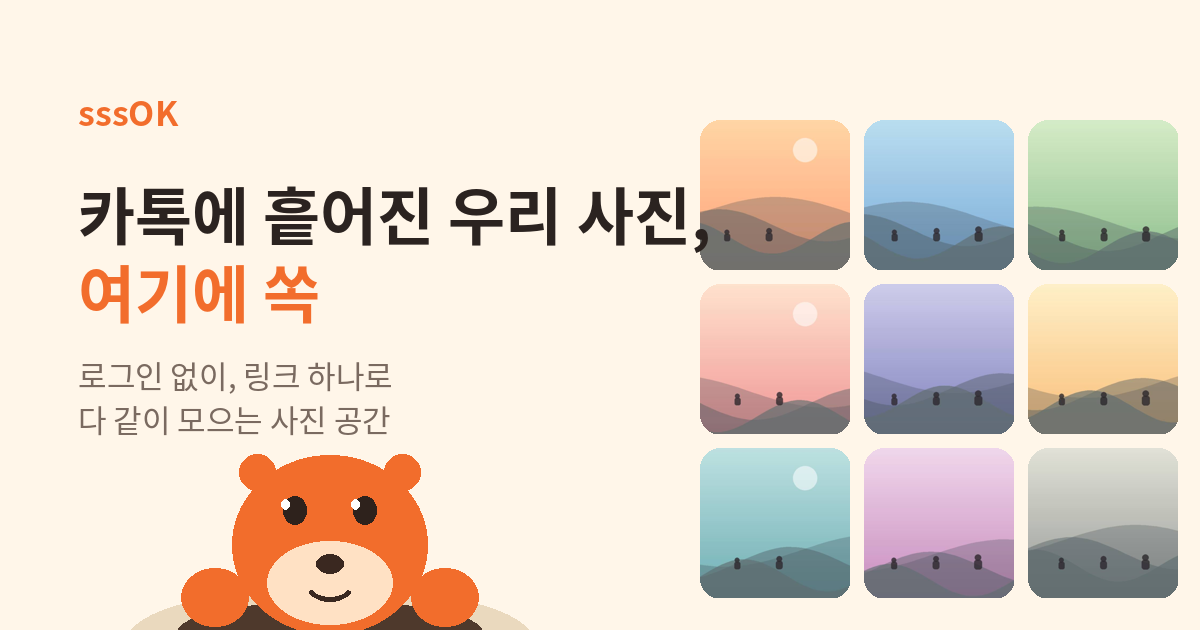
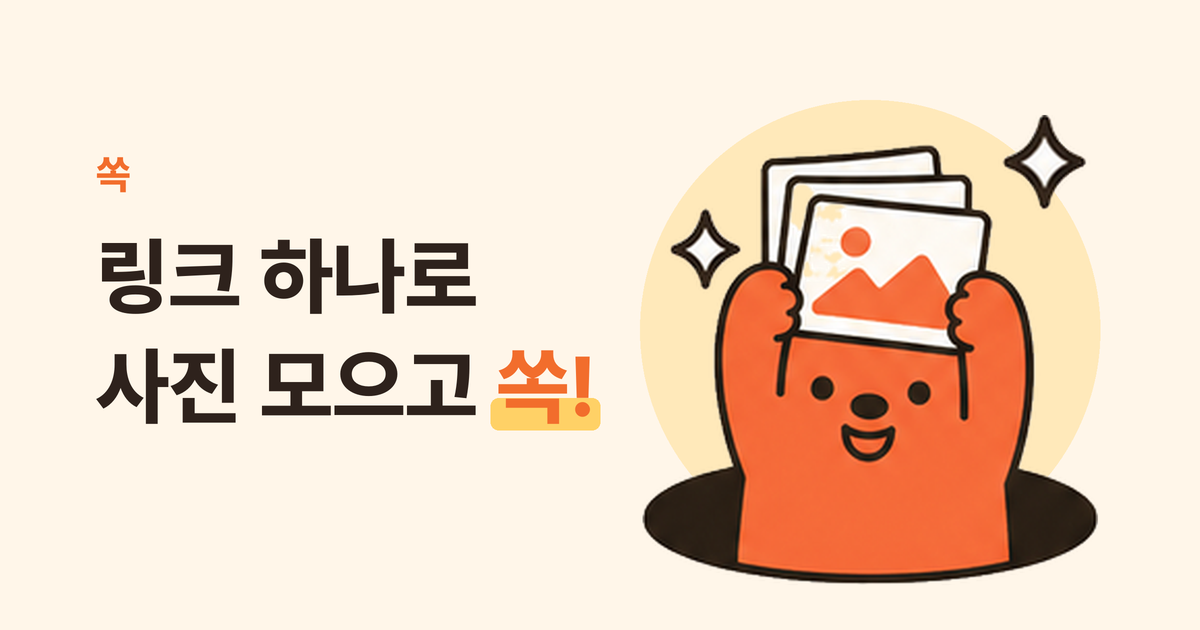
feat: 링크 미리보기 이미지 교체 및 OG 절대 경로로 변경

diff --git a/index.html b/index.html
@@ -20,9 +20,15 @@
       property="og:description"
       content="링크 하나로 모으고, 고르고, 쏙 나누세요"
     />
-    <meta property="og:image" content="./assets/logo.png" />
-    <meta property="og:image:width" content="1254" />
-    <meta property="og:image:height" content="1254" />
+    <!-- 미리보기 수집기(카카오톡·슬랙 등)는 상대 경로를 못 푸는 경우가 많아 절대 주소로 쓴다 -->
+    <meta property="og:url" content="https://sssok-landing.vercel.app/" />
+    <meta
+      property="og:image"
+      content="https://sssok-landing.vercel.app/assets/og.png"
+    />
+    <meta property="og:image:width" content="1200" />
+    <meta property="og:image:height" content="630" />
+    <meta property="og:image:alt" content="링크 하나로 사진 모으고 쏙! — 사진을 든 쏙이" />
     <meta name="twitter:card" content="summary_large_image" />
 
     <link rel="icon" href="./assets/logo.png" />
